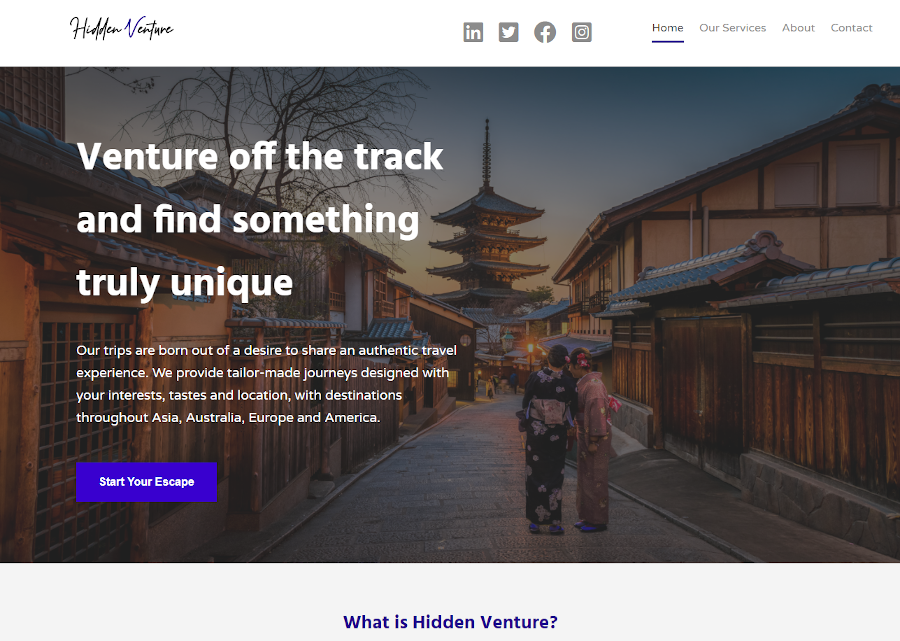
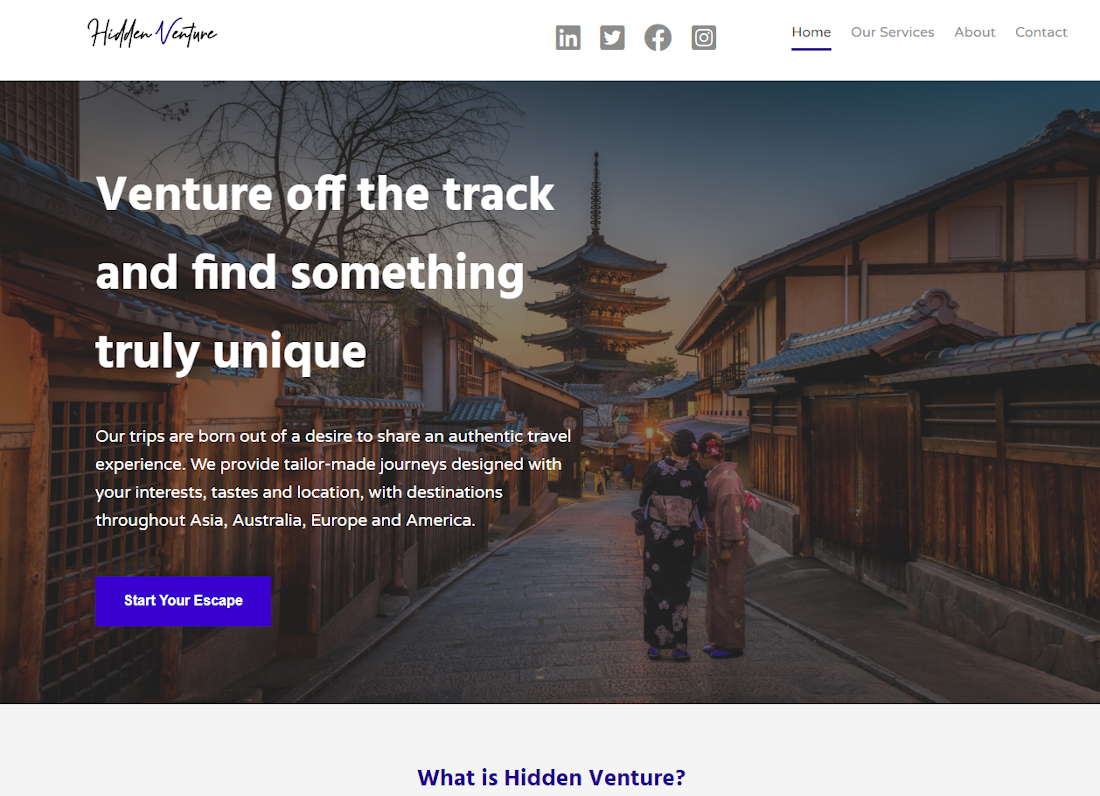
Image scaled further

diff --git a/src/components/PageSetup/Work/Project-1/ProjectOne.js b/src/components/PageSetup/Work/Project-1/ProjectOne.js
@@ -4,7 +4,7 @@ import { FontAwesomeIcon } from "@fortawesome/react-fontawesome"
 import { faCode } from "@fortawesome/free-solid-svg-icons"
 import { faWpforms } from "@fortawesome/free-brands-svg-icons"
 import { Link } from "gatsby"
-import HiddenVenture from "../../../../images/items/project1-v2.png"
+import HiddenVenture from "../../../../images/items/project1-v2-scale.png"
 
 const ProjectOne = () => {
   return (

diff --git a/src/components/PageSetup/Home/Home.js b/src/components/PageSetup/Home/Home.js
@@ -15,7 +15,7 @@ const Home = () => {
   useEffect(() => {
     setTimeout(() => {
       setLoading(false)
-    }, 2000)
+    }, 1500)
   }, [loading])
 
   if (loading) return <Spinner />
